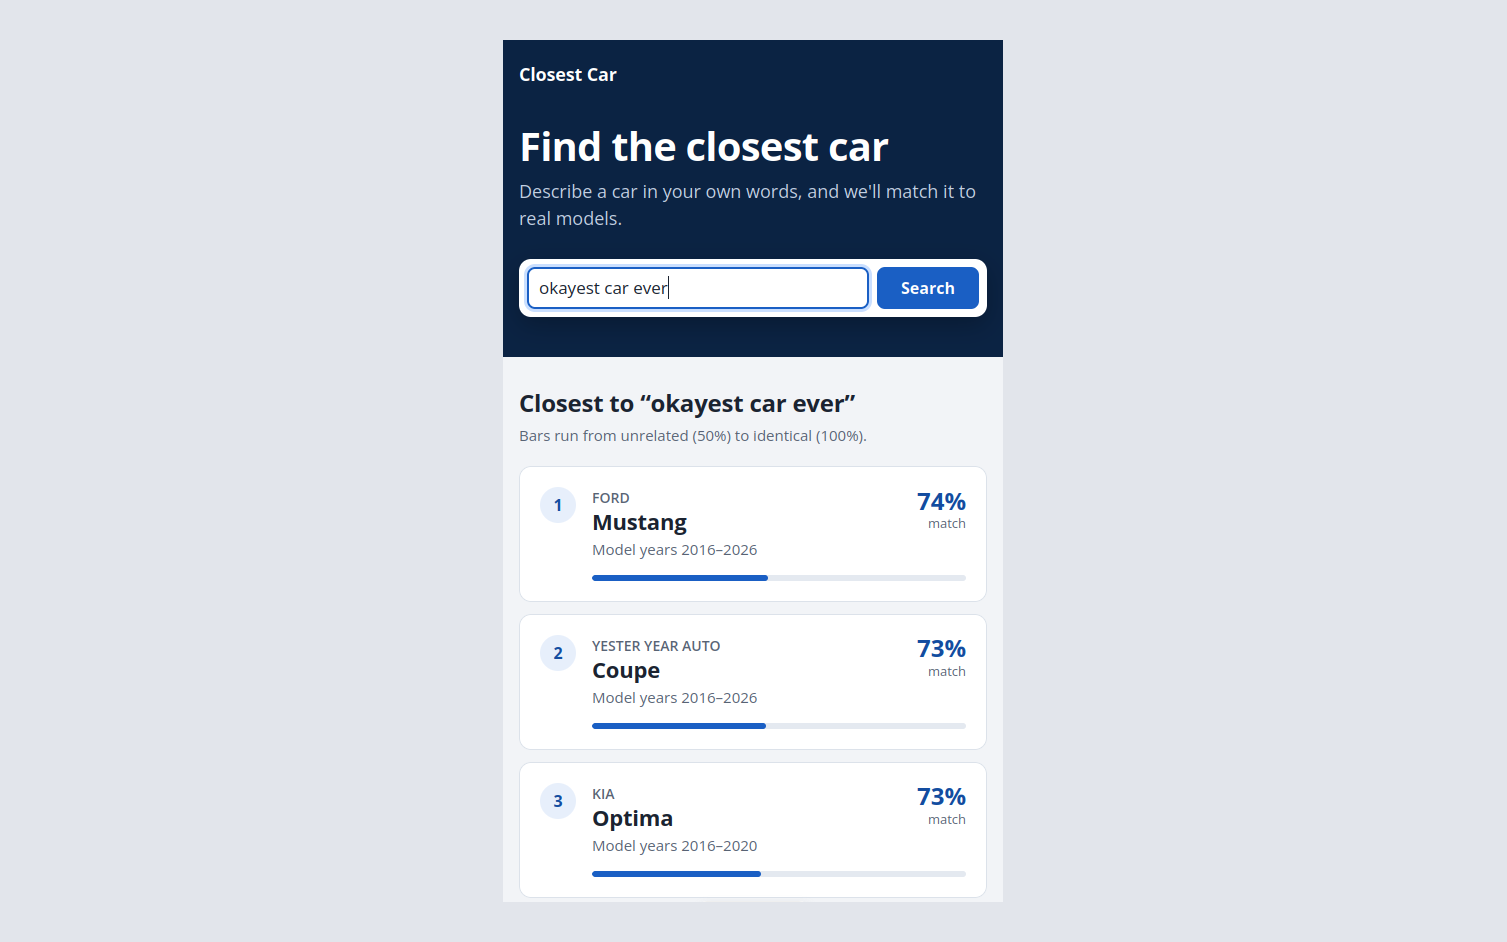
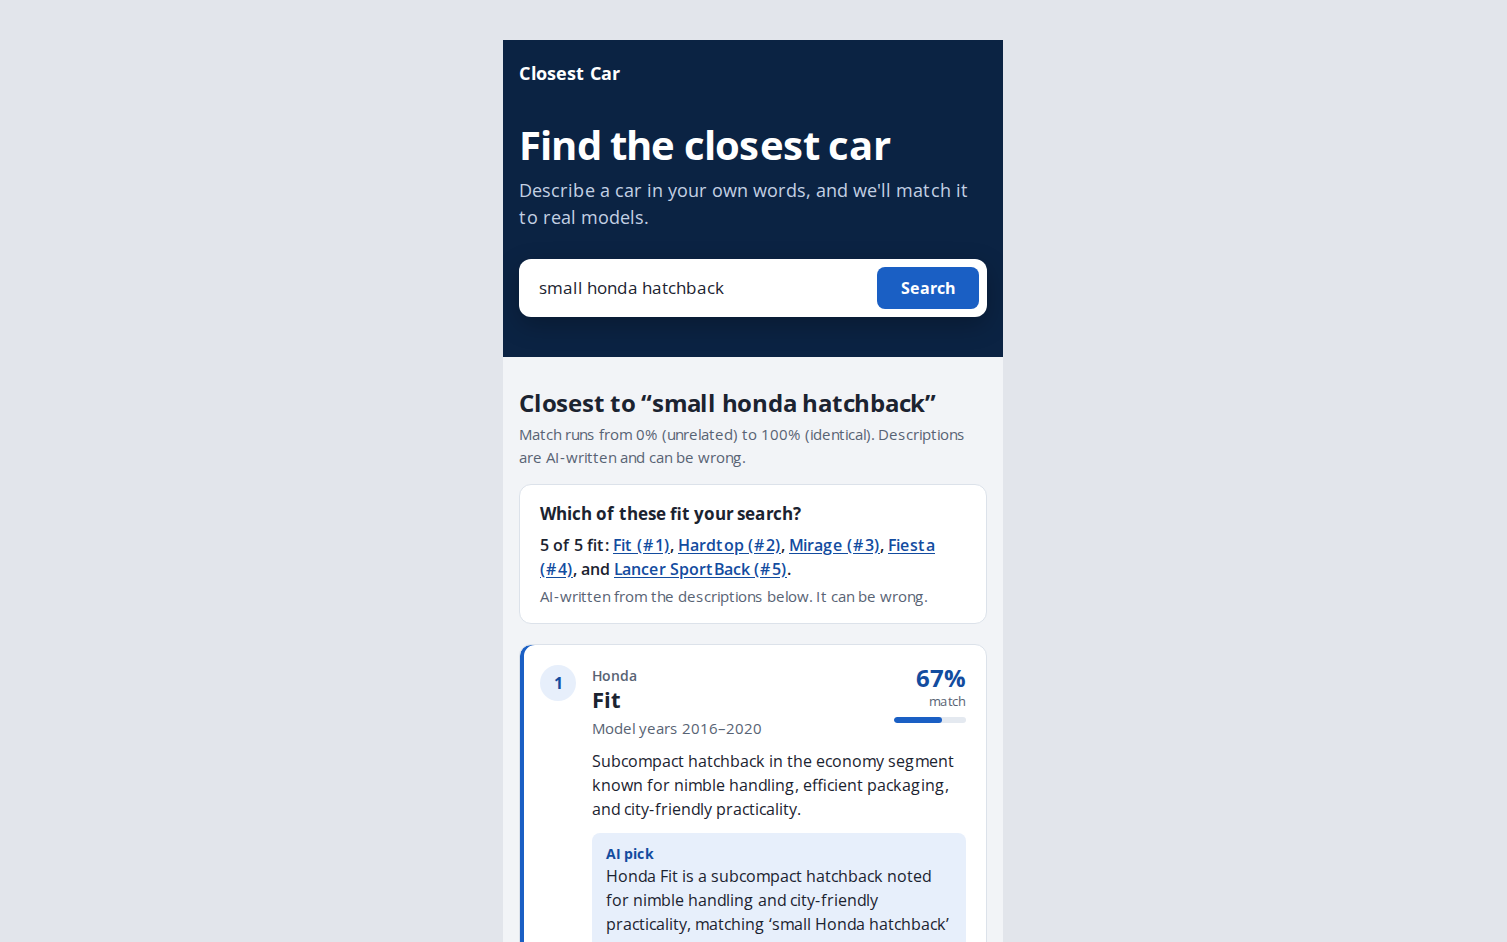
update RAG photo to be up to date

diff --git a/src/content/projects/vector-rag-nuxt.md b/src/content/projects/vector-rag-nuxt.md
@@ -5,7 +5,7 @@ repo: https://github.com/ClarkGH/VectorRAGNuxt
 stack: [Nuxt, Node, MongoDB Vector Search, OpenAI API]
 status: experiment
 image: ../../assets/projects/vector-rag-nuxt.png
-imageAlt: "The search page at phone width: a navy header with a search box containing \"okayest car ever\", then ranked result cards with match bars: Ford Mustang at 74%, Yester Year Auto Coupe at 73% and Kia Optima at 73%."
+imageAlt: "The search page at phone width: a search for \"small honda hatchback\", an AI summary saying all 5 results fit, and the top result, the Honda Fit at 67% match, with a blue edge and an AI pick note explaining why it fits."
 order: 3
 ---
 
@@ -16,7 +16,10 @@ A hands-on study of vector databases and RAG. You describe a car in plain langua
 - **A data scraper** pulls model data from the NHTSA vPIC API, filterable by year range and make.
 - **MongoDB as the vector store.** Scraped records are embedded and searched by similarity.
 - **A Nuxt front end** takes the prompt and shows the results.
+- **An AI answer**, the "G" in RAG: on request, gpt-5-mini marks which results fit your search and why. Code checks every answer before it's shown.
 
 ## Status
 
-Search works end to end: scraped models are seeded into MongoDB, and a plain-language description comes back as the closest matches with a score. The results are still rough (a "medium sedan" search turns up an SL-Class roadster), so tuning what gets embedded is next.
+Search and the AI answer both work end to end. Adding short AI-written descriptions to each car made search much better: on a set of searches I labeled by hand, the ranking score went from 0.82 to 0.99.
+
+The answer can only pick from the cars the search found, and a check in code throws out any answer that names a car it wasn't given. That check earned its keep. Told never to mention outside cars, the model still compared against a Ford Mustang when a search asked it to. Testing also taught me that the government's "passenger cars" include a few SUVs, which I had confidently told the AI they didn't. Lesson learned: check the data before the data checks you.
